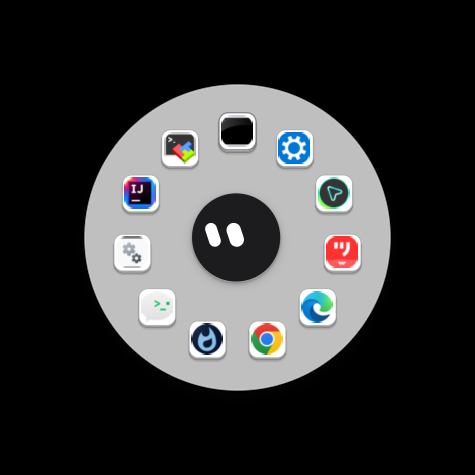
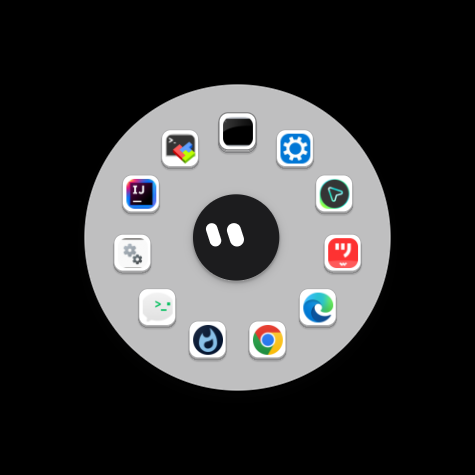
图标清晰度：mip 链加密 + 按足迹面积平均 + 亚像素定位
锯齿（内环 edge/墨刀、外环桌面/下载）由三个因素叠加造成：
- mip 步长 1.4 → pick 出的级别 k=tex/size 落在 1.18~1.28，
  而双线性的三角核比足迹窄，缩小 27% 时会漏高频 → 混叠
- 采样只有 2×2 抽头，覆盖不均
- draw_bgra_icon 的中心被 `as i32` 截断，丢亚像素精度

改法：
- mip 步长 1.4 → 1.06（k ∈ [1, 1.06]，重采样近乎 1:1）
- 采样改为按足迹（k×k）做面积平均 —— 与缩小比匹配的抗混叠滤波
- 旋转版改为局部空间 3×3 亚样本 box 积分
- 中心改 f32 + floor 亚像素偏移

实测：内环 4 格与外环 2 段的台阶状边缘全部消失且未变糊；
「菜单开 + 鼠标持续移动」CPU 30% → 29% 单核（非旋转版纹素读取 16 → 4 次）。

diff --git a/radial-launcher/src/main.rs b/radial-launcher/src/main.rs
@@ -1655,7 +1655,7 @@ unsafe fn draw_scene(st: &mut State, buf: &mut [u8]) {
         }
 
         if let Some(tex) = &st.apps[i].icon {
-            draw_bgra_icon(buf, cx as i32, cy as i32, icon_side, tex, am);
+            draw_bgra_icon(buf, cx, cy, icon_side, tex, am);
         } else if let Some(ch) = st.apps[i].name.chars().next() {
             // 没有真实图标：淡色圆角方 + 同色字形（不用实色块）
             let half = icon_side * 0.5 * 0.86;
@@ -1786,8 +1786,15 @@ impl IconTex {
     fn from_base(px: usize, data: Vec<u8>) -> IconTex {
         let mut levels = vec![(px, data)];
         let mut cur = px;
+        // ⚠ 步长决定最终质量：`pick` 返回「≥ size 的最小一级」，所以纹理/绘制比
+        // `k = tex_px / size` 恒落在 [1, 1.06]。
+        //
+        // 原来是 **1.4** → k ∈ [1, 1.4]，而**双线性在缩小 27% 时会漏掉高频**
+        // （三角核比足迹窄），于是边缘出现台阶状混叠 ——
+        // 用户 2026-10-09 报「内环 edge/墨刀、外环桌面/下载锯齿感很明显」就是这个。
+        // 1.06 让 k 几乎等于 1，重采样退化成「取最近的、几乎 1:1 的那一级」。
         while cur > 12 {
-            let next = ((cur as f32 / 1.4).round() as usize).max(6);
+            let next = ((cur as f32 / 1.06).round() as usize).max(6);
             if next >= cur {
                 break;
             }
@@ -1870,68 +1877,81 @@ fn downsample_box(src: &[u8], sw: usize, dw: usize) -> Vec<u8> {
     out
 }
 
-fn draw_bgra_icon(buf: &mut [u8], cx: i32, cy: i32, size: f32, tex: &IconTex, alpha: f32) {
+fn draw_bgra_icon(buf: &mut [u8], cx: f32, cy: f32, size: f32, tex: &IconTex, alpha: f32) {
     let (tex_px, data) = tex.pick(size);
-    if tex_px == 0 {
-        return;
-    }
     if alpha <= 0.01 || size <= 0.5 || tex_px == 0 || data.len() < tex_px * tex_px * 4 {
         return;
     }
     let n = tex_px as f32;
-    let half = size / 2.0;
+    let half = size * 0.5;
     let ext = half.ceil() as i32 + 1;
-    // 每个目标像素覆盖多少源纹素。mip 之后恒在 [1, 1.4] —— 只有很小的缩小比例，
-    // 所以 1~2 个抽头就够；真正把 2.8:1 那次大缩小交给加载时的 mip 生成。
+    // 每个目标像素覆盖多少源纹素。mip 步长 1.06 → 恒在 [1, 1.06]，
+    // 所以下面的足迹面积平均最多跨 2×2 个纹素。
     let k = n / size;
-    let span = (k * 0.5).clamp(0.35, 1.2);
-    let taps: i32 = if k > 1.15 { 2 } else { 1 };
-    // 采样偏移必须**关于中心对称**（旧式 taps=1 会偏到 -span 处，图标整体错半像素）
-    let step = 2.0 * span / taps as f32;
-    for py in (cy - ext).max(0)..(cy + ext).min(CANVAS) {
-        for px in (cx - ext).max(0)..(cx + ext).min(CANVAS) {
-            let fx = ((px as f32 + 0.5 - cx as f32) * k + (n - 1.0) / 2.0).clamp(0.0, n - 1.0);
-            let fy = ((py as f32 + 0.5 - cy as f32) * k + (n - 1.0) / 2.0).clamp(0.0, n - 1.0);
-            // 在源像素覆盖范围内均匀取 taps×taps 个样本，预乘后平均
-            let mut acc = [0.0f32; 4];
-            let mut cnt = 0.0f32;
-            for ty in 0..taps {
-                let syf =
-                    (fy + (ty as f32 + 0.5 - taps as f32 * 0.5) * step).clamp(0.0, n - 1.001);
-                let y0 = syf.floor();
-                let yi = y0 as usize;
-                let fyr = syf - y0;
-                let yi1 = (yi + 1).min(tex_px - 1);
-                for tx in 0..taps {
-                    let sxf =
-                        (fx + (tx as f32 + 0.5 - taps as f32 * 0.5) * step).clamp(0.0, n - 1.001);
-                    let x0 = sxf.floor();
-                    let xi = x0 as usize;
-                    let fxr = sxf - x0;
-                    let xi1 = (xi + 1).min(tex_px - 1);
-                    // 双线性取样（原来 `(sxf + 0.5) as usize` 是**最近邻** ——
-                    // 缩小 1.3 倍时等于点采样，细节全丢还带阶梯锯齿）
-                    for (yy2, wy) in [(yi, 1.0 - fyr), (yi1, fyr)] {
-                        for (xx2, wx) in [(xi, 1.0 - fxr), (xi1, fxr)] {
-                            // ⚠ 步长必须是**实际纹理尺寸** `tex_px`，不能写 `ICON_PX` ——
-                            // `pe_png_icon` / 32px 回退会返回比 ICON_PX 小的纹理，
-                            // 用常量步长会读串行、图标直接花掉。
-                            let so = (yy2 * tex_px + xx2) * 4;
-                            let a = data[so + 3] as f32 / 255.0;
-                            let ww = wx * wy;
-                            acc[0] += data[so + 2] as f32 * a * ww;
-                            acc[1] += data[so + 1] as f32 * a * ww;
-                            acc[2] += data[so] as f32 * a * ww;
-                            acc[3] += a * ww;
-                            cnt += ww;
-                        }
-                    }
-                }
-            }
-            if cnt < 0.5 || acc[3] <= 1e-4 {
+    // 亚像素：中心不再取整（原来 `cx as i32` 是**截断**，最多错 1px，
+    // 边缘的 AA 会和底板对不齐、看起来发毛）。
+    let bx = cx.floor() as i32;
+    let by = cy.floor() as i32;
+    let fx0 = cx - bx as f32;                       // ∈ [0,1)
+    let fy0 = cy - by as f32;
+    // 足迹半宽（源纹素单位）
+    let hw = k * 0.5;
+    for iy in -ext..=ext {
+        let py = by + iy;
+        if py < 0 || py >= CANVAS {
+            continue;
+        }
+        for ix in -ext..=ext {
+            let px = bx + ix;
+            if px < 0 || px >= CANVAS {
                 continue;
             }
-            let a = (acc[3] / cnt) * alpha;
+            // 目标像素中心 → 源坐标（像素中心对像素中心的约定：
+            // 目标中心 -cx 时恰好落在源纹理中心）
+            let sx = (ix as f32 + 0.5 - fx0) * k + (n - 1.0) * 0.5;
+            let sy = (iy as f32 + 0.5 - fy0) * k + (n - 1.0) * 0.5;
+            // 足迹 = k×k，做**面积平均**。
+            // 这就是与缩小比匹配的抗混叠滤波 —— 2×2 抽头 + 双线性做不到这点，
+            // 双线性的三角核只覆盖 2 纹素宽，而足迹需要 k 纹素宽。
+            let x0f = sx - hw;
+            let x1f = sx + hw;
+            let y0f = sy - hw;
+            let y1f = sy + hw;
+            let ix0 = x0f.floor().max(0.0) as usize;
+            let ix1 = (x1f.ceil() as usize).min(tex_px);
+            let iy0 = y0f.floor().max(0.0) as usize;
+            let iy1 = (y1f.ceil() as usize).min(tex_px);
+            let mut acc = [0.0f32; 4];
+            for yy in iy0..iy1 {
+                let wy = (yy as f32 + 1.0).min(y1f) - (yy as f32).max(y0f);
+                if wy <= 0.0 {
+                    continue;
+                }
+                for xx in ix0..ix1 {
+                    let wx = (xx as f32 + 1.0).min(x1f) - (xx as f32).max(x0f);
+                    if wx <= 0.0 {
+                        continue;
+                    }
+                    // ⚠ 步长必须是**实际纹理尺寸** `tex_px`，不能写 `ICON_PX` ——
+                    // `pe_png_icon` / 32px 回退会返回比 ICON_PX 小的纹理，
+                    // 用常量步长会读串行、图标直接花掉。
+                    let so = (yy * tex_px + xx) * 4;
+                    let a = data[so + 3] as f32 / 255.0;
+                    let ww = wx * wy;
+                    acc[0] += data[so + 2] as f32 * a * ww; // R
+                    acc[1] += data[so + 1] as f32 * a * ww; // G
+                    acc[2] += data[so] as f32 * a * ww;     // B
+                    acc[3] += a * ww;
+                }
+            }
+            // 分母用**理论足迹面积** k*k（而不是实际覆盖和）：
+            // 足迹越出纹理边界的部分按透明处理，边缘 alpha 才会正确衰减，
+            // 不会被「重归一化」抬高成硬边。
+            let wsum = k * k;
+            if wsum <= 0.0 || acc[3] <= 1e-5 {
+                continue;
+            }
+            let a = (acc[3] / wsum) * alpha;
             if a <= 0.004 {
                 continue;
             }
@@ -1963,13 +1983,17 @@ fn draw_bgra_icon_rot(buf: &mut [u8], cx: f32, cy: f32, size: f32,
     let ext = (half * 1.4143).ceil() as i32 + 1;
     let (sn, cs) = rot.sin_cos();
     let k = n / size;                                  // 每个目标像素覆盖多少源纹素
-    let span = (k * 0.5).clamp(0.35, 1.2);
-    let taps: i32 = if k > 1.15 { 2 } else { 1 };
-    let step = 2.0 * span / taps as f32;               // 源纹素单位
-    let off = step / k;                                // 换算到局部像素单位
-    let bx = cx.round() as i32;
-    let by = cy.round() as i32;
-    let w = CANVAS as usize;
+    // 亚像素（与非旋转版一致）。`i`/`j` 是相对 `bx`/`by` 的整数偏移，
+    // 目标像素中心相对 (bx,by) 的局部坐标 = i + 0.5 - f0。
+    let bx = cx.floor() as i32;
+    let by = cy.floor() as i32;
+    let fx0 = cx - bx as f32;
+    let fy0 = cy - by as f32;
+    // ⚠ 旋转版没法直接按足迹做面积平均（足迹在纹理空间是个**旋转的**方块）。
+    // 近似做法：在**局部空间**做 N×N 亚样本的 box 积分，每个亚样本反旋到纹理空间
+    // 再双线性取样。k ≤ 1.06 → N=3 足够（采样点间距 1/3 局部像素）。
+    const N: i32 = 3;
+    let w_ = CANVAS as usize;
     for j in -ext..=ext {
         let py = by + j;
         if py < 0 || py >= CANVAS {
@@ -1981,11 +2005,11 @@ fn draw_bgra_icon_rot(buf: &mut [u8], cx: f32, cy: f32, size: f32,
                 continue;
             }
             let mut acc = [0.0f32; 4];
-            let mut cnt = 0.0f32;
-            for ty in 0..taps {
-                for tx in 0..taps {
-                    let lx = i as f32 + 0.5 + (tx as f32 + 0.5 - taps as f32 * 0.5) * off;
-                    let ly = j as f32 + 0.5 + (ty as f32 + 0.5 - taps as f32 * 0.5) * off;
+            let mut hit = 0.0f32;
+            for ty in 0..N {
+                for tx in 0..N {
+                    let lx = i as f32 + (tx as f32 + 0.5) / N as f32 - fx0;
+                    let ly = j as f32 + (ty as f32 + 0.5) / N as f32 - fy0;
                     // 反旋到「纹理」坐标
                     let ux = lx * cs + ly * sn;
                     let uy = -lx * sn + ly * cs;
@@ -1996,8 +2020,6 @@ fn draw_bgra_icon_rot(buf: &mut [u8], cx: f32, cy: f32, size: f32,
                     // 的图标（Edge / 设置 / chrome…）边缘像素是不透明的，后果两条：
                     //   ① 圆角被边缘像素填满 → 图标看起来是**直角**方
                     //   ② 方块旋转后没覆盖到的 4 个角也被涂上颜色 → **四个方向凸起**
-                    // 用户 2026-10-08 报的就是这两条；旋转角接近 0 的段看不出来，所以
-                    // 「有的正常，有的四个方向有突起」。
                     // 修法：落在纹理外就**直接丢这一份子样本**，绝不 clamp（clamp = 把内容
                     // 往外抹）。丢完之后画出来的轮廓正好是「随弧转的圆角方块」。
                     if ux.abs() > half || uy.abs() > half {
@@ -2020,20 +2042,27 @@ fn draw_bgra_icon_rot(buf: &mut [u8], cx: f32, cy: f32, size: f32,
                             acc[1] += data[so + 1] as f32 * a * ww;
                             acc[2] += data[so] as f32 * a * ww;
                             acc[3] += a * ww;
-                            cnt += ww;
+                            hit += ww;
                         }
                     }
                 }
             }
-            if cnt < 0.5 || acc[3] <= 1e-4 {
+            // 分母 = N*N（理论亚样本数）→ 落在圆角外的子样本按透明计，
+            // 边缘 alpha 正确衰减（不能拿 `hit` 当分母，那会把边"补满"成硬直角）。
+            let _ = hit;
+            let denom = (N * N) as f32;
+            if acc[3] <= 1e-5 {
                 continue;
             }
-            let a = (acc[3] / cnt) * alpha;
+            let a = (acc[3] / denom) * alpha;
             if a <= 0.004 {
                 continue;
             }
-            let o = (py as usize * w + px as usize) * 4;
-            blend_over(buf, o, acc[0] / acc[3], acc[1] / acc[3], acc[2] / acc[3], a);
+            let r = acc[0] / acc[3];
+            let g = acc[1] / acc[3];
+            let b = acc[2] / acc[3];
+            let o = (py as usize * w_ + px as usize) * 4;
+            blend_over(buf, o, r, g, b, a);
         }
     }
 }
